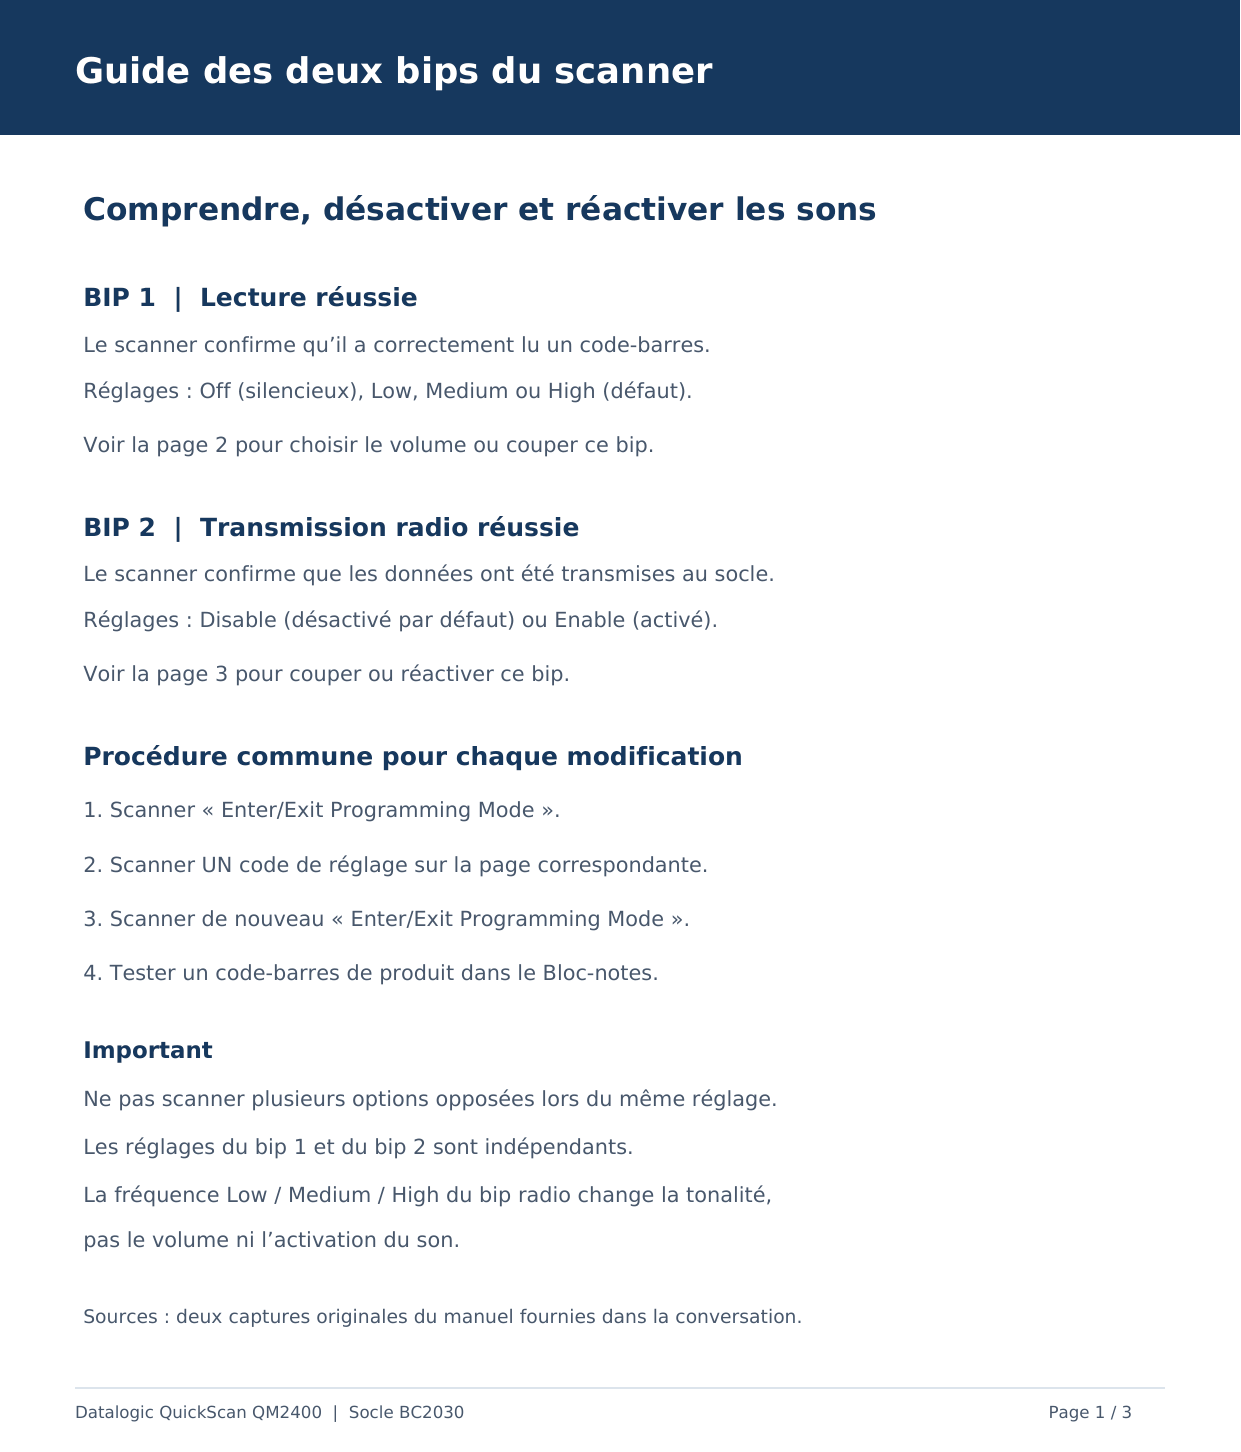
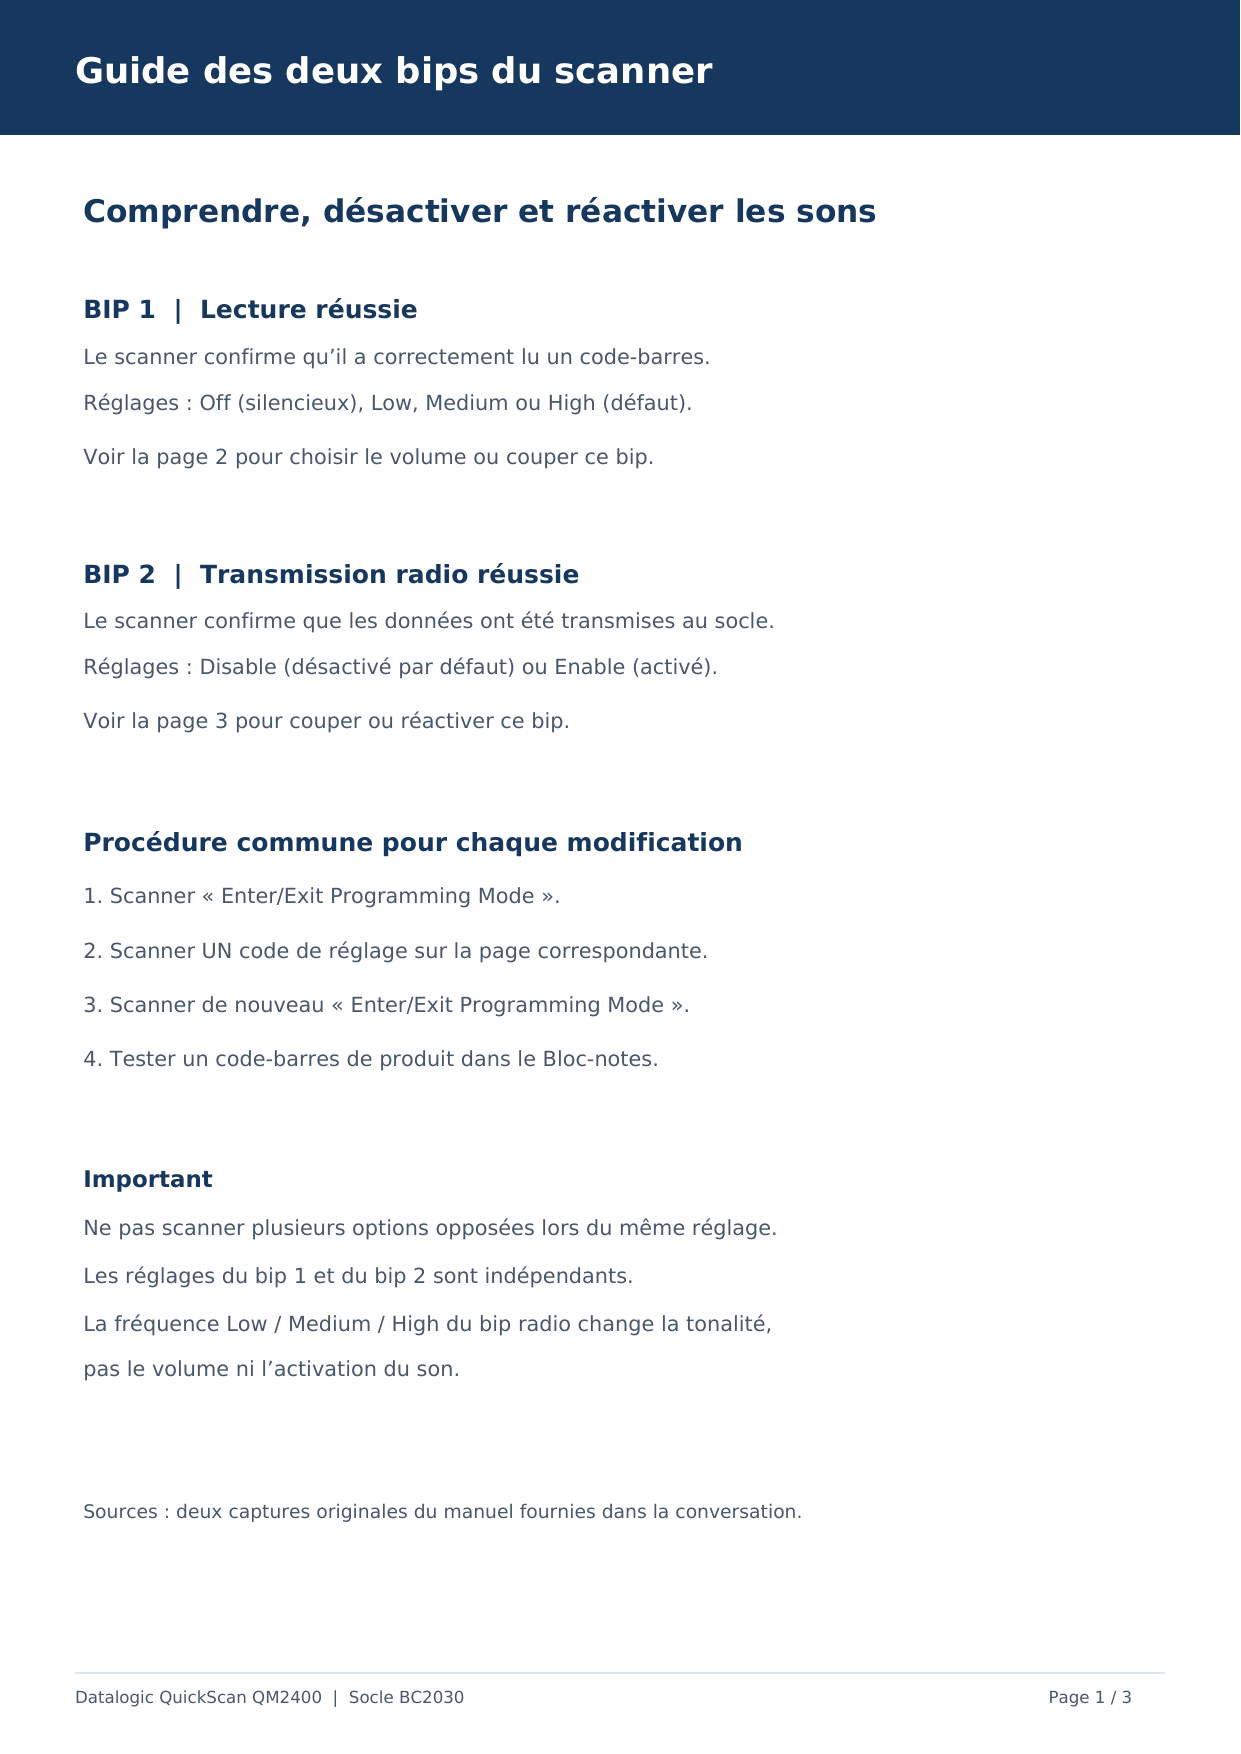
Volume bip scanner : seulement les 3 onglets, page entière visible

diff --git a/index.html b/index.html
@@ -68,12 +68,14 @@ select.btn { padding-right: 8px; max-width: 260px }
 .bipbtn { display: inline-flex; align-items: center; gap: 6px; text-decoration: none; min-height: 32px; padding: 4px 8px; border-radius: 6px }
 .bipbtn:hover { background: var(--accent-soft) }
 .modal.wide { width: min(900px, 100%) }
-.biptabs { display: flex; gap: 6px; flex-wrap: wrap }
+.modal.bip { width: min(760px, 100%); height: 100%; padding: 12px; gap: 10px; overflow: hidden }
+.biphead { display: flex; align-items: center; gap: 8px; flex: none }
+.biptabs { display: flex; gap: 6px; flex-wrap: wrap; flex: 1; min-width: 0 }
 .biptabs .chip[aria-selected="true"] { background: var(--accent-soft); border-color: var(--accent); font-weight: 600 }
-.bippage { background: #fff; border: 1px solid var(--line); border-radius: 10px; overflow: hidden }
-.bippage img { display: block; width: 100%; height: auto }
-a.btn { text-decoration: none; color: inherit }
-.bipsteps { margin: 0; padding-left: 20px; color: var(--ink); font-size: 14px; display: grid; gap: 2px }
+.bipx { flex: none; width: 40px; height: 40px; border-radius: 50%; border: 1px solid var(--line); background: var(--surface-2); color: var(--ink); font-size: 24px; line-height: 1 }
+/* la page entière tient dans la fenêtre, sans défilement */
+.bippage { flex: 1; min-height: 0; display: flex; justify-content: center; align-items: center }
+.bippage img { display: block; max-width: 100%; max-height: 100%; width: auto; height: auto; object-fit: contain; background: #fff; border: 1px solid var(--line); border-radius: 6px }
 .scanlbl { font-size: 12px; text-transform: uppercase; letter-spacing: .08em; color: var(--muted); font-weight: 600 }
 .scan .field input { font: 600 22px var(--f-num); min-height: 54px; letter-spacing: .04em }
 .scan .field input::placeholder { font: 400 16px var(--f-ui); letter-spacing: 0 }
@@ -1438,11 +1440,11 @@ function toast(msg) { const t = $('#toast'); t.textContent = msg; t.hidden = fal
 let modalHist = false, backPending = false, wantPush = false;
 function modalPush() { try { history.pushState({ ptModal: 1 }, ''); modalHist = true; } catch (e) {} }
 function modal(html) {
-  $('#modalBox').classList.remove('wide'); $('#modalBox').innerHTML = html; $('#modal').hidden = false;
+  $('#modalBox').classList.remove('wide', 'bip'); $('#modalBox').innerHTML = html; $('#modal').hidden = false;
   if (!modalHist) { if (backPending) wantPush = true; else modalPush(); }
 }
 function closeModal(fromPop) {
-  $('#modal').hidden = true; $('#modalBox').innerHTML = ''; $('#modalBox').classList.remove('wide');
+  $('#modal').hidden = true; $('#modalBox').innerHTML = ''; $('#modalBox').classList.remove('wide', 'bip');
   if (modalHist && fromPop !== true) { modalHist = false; backPending = true; try { history.back(); } catch (e) { backPending = false; } }
   else modalHist = false;
 }
@@ -1464,14 +1466,13 @@ function openBipGuide(tab) {
   settings.bipTab = tab; saveSettings();
   const pg = BIP_PAGES[tab];
   modal(`
-    <h3>Volume bip scanner</h3>
-    <p>Datalogic QuickScan QM2400 · socle BC2030. Les codes peuvent être scannés directement sur cet écran (luminosité au maximum) ou sur le PDF imprimé.</p>
-    <ol class="bipsteps"><li>Scanner « Enter/Exit Programming Mode ».</li><li>Scanner <b>un seul</b> code de réglage.</li><li>Scanner à nouveau « Enter/Exit Programming Mode ».</li></ol>
-    <div class="biptabs" role="tablist">${BIP_PAGES.map((p, i) => `<button class="chip" role="tab" data-t="${i}" aria-selected="${i === tab}">${esc(p.t)}</button>`).join('')}</div>
-    <div class="bippage" role="tabpanel"><img src="${pg.img}" alt="${esc(pg.alt)}"></div>
-    <div class="mrow"><a class="btn" href="guide-scanner/guide-bip-scanner.pdf" target="_blank" rel="noopener">Ouvrir le PDF (à imprimer)</a><button class="btn primary" id="bipClose">Fermer</button></div>`);
-  $('#modalBox').classList.add('wide');
-  $('#modalBox').querySelectorAll('.biptabs .chip').forEach(b => b.onclick = () => { const y = $('#modalBox').scrollTop; openBipGuide(+b.dataset.t); $('#modalBox').scrollTop = y; });
+    <div class="biphead">
+      <div class="biptabs" role="tablist" aria-label="Volume bip scanner">${BIP_PAGES.map((p, i) => `<button class="chip" role="tab" data-t="${i}" aria-selected="${i === tab}">${esc(p.t)}</button>`).join('')}</div>
+      <button class="bipx" id="bipClose" aria-label="Fermer">×</button>
+    </div>
+    <div class="bippage" role="tabpanel"><img src="${pg.img}" alt="${esc(pg.alt)}"></div>`);
+  $('#modalBox').classList.add('wide', 'bip');
+  $('#modalBox').querySelectorAll('.biptabs .chip').forEach(b => b.onclick = () => openBipGuide(+b.dataset.t));
   $('#bipClose').onclick = closeModal;
 }
 

diff --git a/src/app.src.html b/src/app.src.html
@@ -68,12 +68,14 @@ select.btn { padding-right: 8px; max-width: 260px }
 .bipbtn { display: inline-flex; align-items: center; gap: 6px; text-decoration: none; min-height: 32px; padding: 4px 8px; border-radius: 6px }
 .bipbtn:hover { background: var(--accent-soft) }
 .modal.wide { width: min(900px, 100%) }
-.biptabs { display: flex; gap: 6px; flex-wrap: wrap }
+.modal.bip { width: min(760px, 100%); height: 100%; padding: 12px; gap: 10px; overflow: hidden }
+.biphead { display: flex; align-items: center; gap: 8px; flex: none }
+.biptabs { display: flex; gap: 6px; flex-wrap: wrap; flex: 1; min-width: 0 }
 .biptabs .chip[aria-selected="true"] { background: var(--accent-soft); border-color: var(--accent); font-weight: 600 }
-.bippage { background: #fff; border: 1px solid var(--line); border-radius: 10px; overflow: hidden }
-.bippage img { display: block; width: 100%; height: auto }
-a.btn { text-decoration: none; color: inherit }
-.bipsteps { margin: 0; padding-left: 20px; color: var(--ink); font-size: 14px; display: grid; gap: 2px }
+.bipx { flex: none; width: 40px; height: 40px; border-radius: 50%; border: 1px solid var(--line); background: var(--surface-2); color: var(--ink); font-size: 24px; line-height: 1 }
+/* la page entière tient dans la fenêtre, sans défilement */
+.bippage { flex: 1; min-height: 0; display: flex; justify-content: center; align-items: center }
+.bippage img { display: block; max-width: 100%; max-height: 100%; width: auto; height: auto; object-fit: contain; background: #fff; border: 1px solid var(--line); border-radius: 6px }
 .scanlbl { font-size: 12px; text-transform: uppercase; letter-spacing: .08em; color: var(--muted); font-weight: 600 }
 .scan .field input { font: 600 22px var(--f-num); min-height: 54px; letter-spacing: .04em }
 .scan .field input::placeholder { font: 400 16px var(--f-ui); letter-spacing: 0 }
@@ -691,11 +693,11 @@ function toast(msg) { const t = $('#toast'); t.textContent = msg; t.hidden = fal
 let modalHist = false, backPending = false, wantPush = false;
 function modalPush() { try { history.pushState({ ptModal: 1 }, ''); modalHist = true; } catch (e) {} }
 function modal(html) {
-  $('#modalBox').classList.remove('wide'); $('#modalBox').innerHTML = html; $('#modal').hidden = false;
+  $('#modalBox').classList.remove('wide', 'bip'); $('#modalBox').innerHTML = html; $('#modal').hidden = false;
   if (!modalHist) { if (backPending) wantPush = true; else modalPush(); }
 }
 function closeModal(fromPop) {
-  $('#modal').hidden = true; $('#modalBox').innerHTML = ''; $('#modalBox').classList.remove('wide');
+  $('#modal').hidden = true; $('#modalBox').innerHTML = ''; $('#modalBox').classList.remove('wide', 'bip');
   if (modalHist && fromPop !== true) { modalHist = false; backPending = true; try { history.back(); } catch (e) { backPending = false; } }
   else modalHist = false;
 }
@@ -717,14 +719,13 @@ function openBipGuide(tab) {
   settings.bipTab = tab; saveSettings();
   const pg = BIP_PAGES[tab];
   modal(`
-    <h3>Volume bip scanner</h3>
-    <p>Datalogic QuickScan QM2400 · socle BC2030. Les codes peuvent être scannés directement sur cet écran (luminosité au maximum) ou sur le PDF imprimé.</p>
-    <ol class="bipsteps"><li>Scanner « Enter/Exit Programming Mode ».</li><li>Scanner <b>un seul</b> code de réglage.</li><li>Scanner à nouveau « Enter/Exit Programming Mode ».</li></ol>
-    <div class="biptabs" role="tablist">${BIP_PAGES.map((p, i) => `<button class="chip" role="tab" data-t="${i}" aria-selected="${i === tab}">${esc(p.t)}</button>`).join('')}</div>
-    <div class="bippage" role="tabpanel"><img src="${pg.img}" alt="${esc(pg.alt)}"></div>
-    <div class="mrow"><a class="btn" href="guide-scanner/guide-bip-scanner.pdf" target="_blank" rel="noopener">Ouvrir le PDF (à imprimer)</a><button class="btn primary" id="bipClose">Fermer</button></div>`);
-  $('#modalBox').classList.add('wide');
-  $('#modalBox').querySelectorAll('.biptabs .chip').forEach(b => b.onclick = () => { const y = $('#modalBox').scrollTop; openBipGuide(+b.dataset.t); $('#modalBox').scrollTop = y; });
+    <div class="biphead">
+      <div class="biptabs" role="tablist" aria-label="Volume bip scanner">${BIP_PAGES.map((p, i) => `<button class="chip" role="tab" data-t="${i}" aria-selected="${i === tab}">${esc(p.t)}</button>`).join('')}</div>
+      <button class="bipx" id="bipClose" aria-label="Fermer">×</button>
+    </div>
+    <div class="bippage" role="tabpanel"><img src="${pg.img}" alt="${esc(pg.alt)}"></div>`);
+  $('#modalBox').classList.add('wide', 'bip');
+  $('#modalBox').querySelectorAll('.biptabs .chip').forEach(b => b.onclick = () => openBipGuide(+b.dataset.t));
   $('#bipClose').onclick = closeModal;
 }
 

diff --git a/sw.js b/sw.js
@@ -1,7 +1,7 @@
 // Mode hors ligne : la page, ses icônes et les bibliothèques (Excel, Firebase, polices) sont gardées sur l'appareil.
 // La page est redemandée au réseau d'abord (dernière version) ; si le réseau ne répond pas en 2,5 s,
 // la copie gardée s'ouvre tout de suite. Les données Firebase ne passent pas par ici (Firestore garde son propre cache).
-const CACHE = 'pointage-v14';
+const CACHE = 'pointage-v15';
 const CORE = ['./', './index.html', './manifest.webmanifest', './icon-192.png', './icon-512.png', './icon-maskable-512.png', './apple-touch-icon.png', './favicon-32.png', './logo-96.png', './guide-scanner/page-1.png', './guide-scanner/page-2.png', './guide-scanner/page-3.png', './guide-scanner/guide-bip-scanner.pdf'];
 const EXTERNAL = ['fonts.googleapis.com', 'fonts.gstatic.com'];
 

diff --git a/README.md b/README.md
@@ -6,7 +6,7 @@ Appli web d'inventaire : on importe la liste Excel des lots attendus, puis on po
 - Données partagées : Firebase Firestore (projet `ltc-pointage-lots-4bfa7`). Tous les appareils voient le même inventaire en direct ; hors ligne, les actions sont gardées sur l'appareil et envoyées au retour du réseau.
 - La configuration Firebase est dans `src/app.src.html` (`FIREBASE_CONFIG`). Si des inventaires avaient été commencés sur un appareil avant le branchement, un bouton propose de les envoyer vers la base.
 - `firestore.rules` : règles d'accès à coller dans Firebase → Firestore Database → Règles.
-- **Volume bip scanner** (lien dans la case « Saisie manuelle / scanner ») : guide Datalogic QM2400 / socle BC2030 avec les codes de programmation des deux bips, scannables à l'écran ; PDF d'origine dans `guide-scanner/`.
+- **Volume bip scanner** (lien dans la case « Saisie manuelle / scanner ») : les 3 pages du guide Datalogic QM2400 / socle BC2030 (codes de programmation des deux bips) en onglets, chaque page affichée en entier ; PDF d'origine dans `guide-scanner/`.
 - **Code d'accès** : l'appli s'ouvre sur un écran de code, demandé une fois par appareil (« Options… » → « Verrouiller cet appareil » pour le redemander). Le code est le mot de passe du compte Firebase unique `pointage@ltc-pointage-lots.app` (Authentication → Utilisateurs ; changer le code = changer ce mot de passe). Les règles n'autorisent la base qu'aux appareils connectés. Le même code doit être enregistré dans le secret GitHub `POINTAGE_CODE` pour la sauvegarde de nuit.
 
 ## Utilisation
